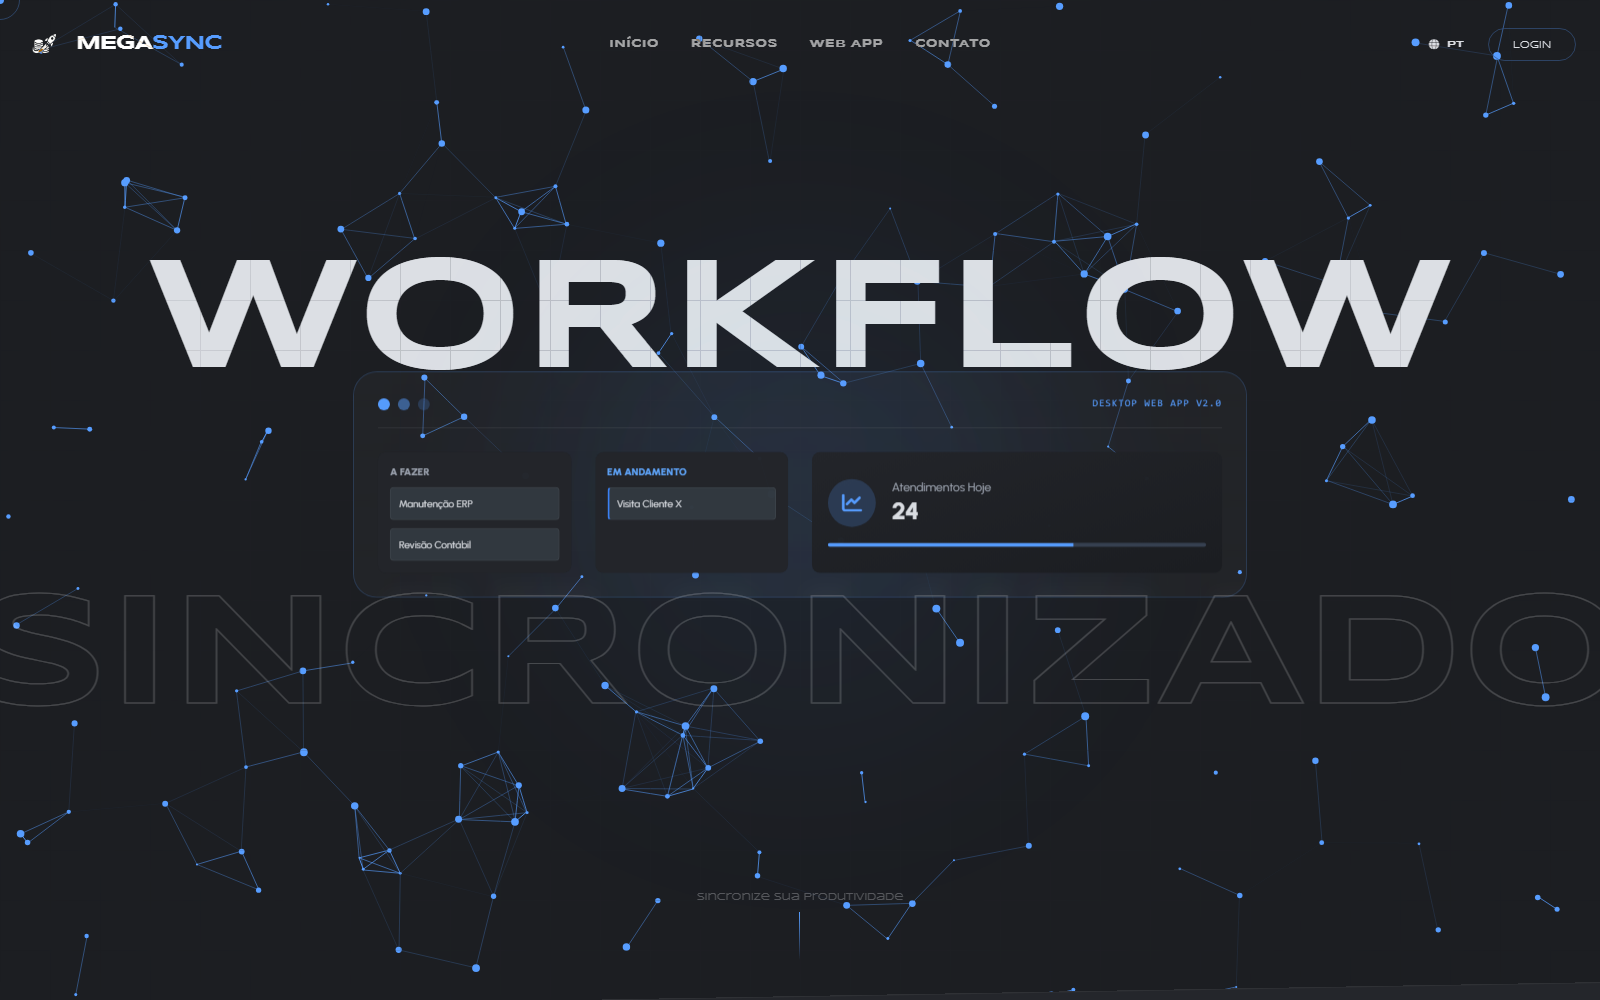
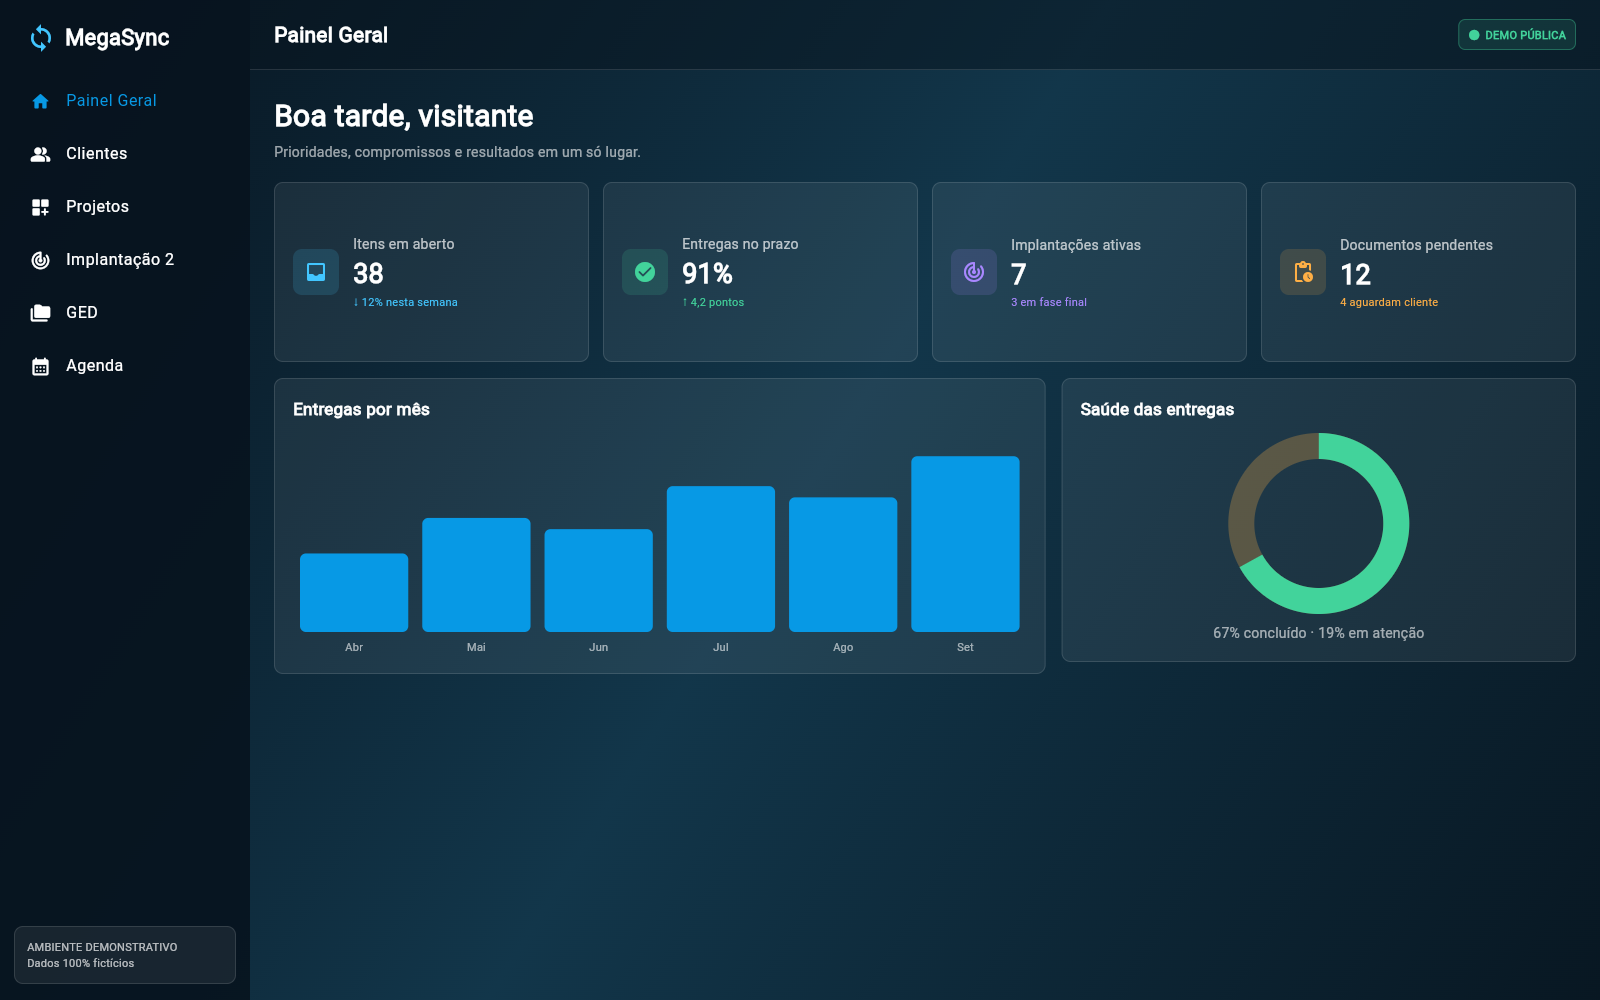
fix: substitui landing pela demo Flutter do MegaSync

diff --git a/README.md b/README.md
@@ -6,7 +6,7 @@ Uma demonstração pública e interativa do **MegaSync EMP**, plataforma de gest
 
 **[Abrir a demonstração online](https://megasyncpitch-demo.web.app/)**
 
-> A demo usa somente dados fictícios, não exige login e não se conecta ao ambiente de produção. As interações são locais e reiniciadas ao atualizar a página.
+> A demo é um build Flutter criado a partir do projeto MegaSync. Usa somente dados fictícios, não exige login e não inicializa Firebase, portanto não lê nem altera o ambiente de produção.
 
 ## Visão geral
 
@@ -45,5 +45,6 @@ flowchart LR
 
 Este é um **repositório de apresentação**. O código-fonte proprietário do produto e o código de publicação da demo não fazem parte do repositório público. Aqui ficam apenas documentação e imagens autorizadas para portfólio.
 
-Desenvolvido por [Shiau Lon](https://github.com/shiaulon).
+O build demonstrativo é mantido no repositório privado principal do produto e publicado separadamente no Firebase Hosting.
 
+Desenvolvido por [Shiau Lon](https://github.com/shiaulon).
